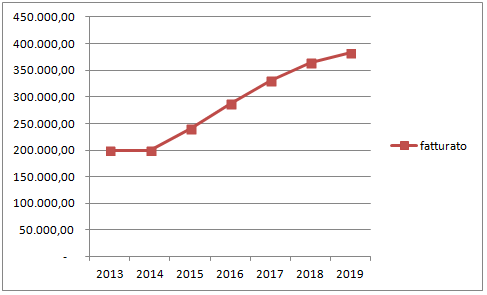
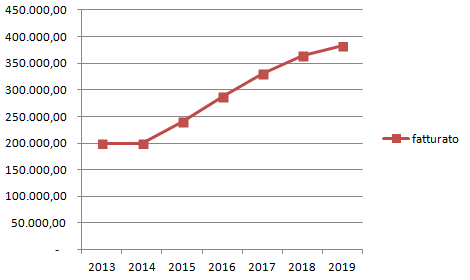
aggiunta nel testo figura del fatturato

diff --git a/Documenti/LaTeX/business_plan/business_plan.tex b/Documenti/LaTeX/business_plan/business_plan.tex
@@ -370,6 +370,15 @@ La seguente tabella rappresenta le prospettive di guadagno stimate per la \custo
 \caption{Stima quinquennale utile.}\label{tab:utile}
 \end{table}
 
+Il grafico riportato in \figurename~\ref{fig:fatturato} illustra la prospettiva di crescita del fatturato di \customer in seguito all'applicazione del piano di sviluppo biennale.
+
+\begin{figure}[H]
+  \centering
+  \includegraphics[width=.7\textwidth]{fatturato}
+  \caption{Andamento dal fatturato nel corso degli anni.}
+  \label{fig:fatturato}
+\end{figure}
+
 Si noti che i dati riportati sono solo di natura previsionale e non tengono conto delle fluttuazioni degli indici di mercato. Essendo infatti il settore del \mktg digitale in cui opera \customer molto flessibile e dinamico è molto complesso fare previsioni certe sull'effettivo guadagno che l'azienda otterrà tramite l'applicazione del piano di sviluppo.
 
 Tuttavia, essendo l'\customer riuscita fino ad oggi a rimanere a passo con i continui cambiamenti del mercato e avendo inoltre sviluppato un livello di maturità sufficiente a delineare le problematiche più gravi all'interno dei propri stessi processi, si è particolarmente ottimisti sull'effettivo raggiungimento degli obiettivi prefissati.
